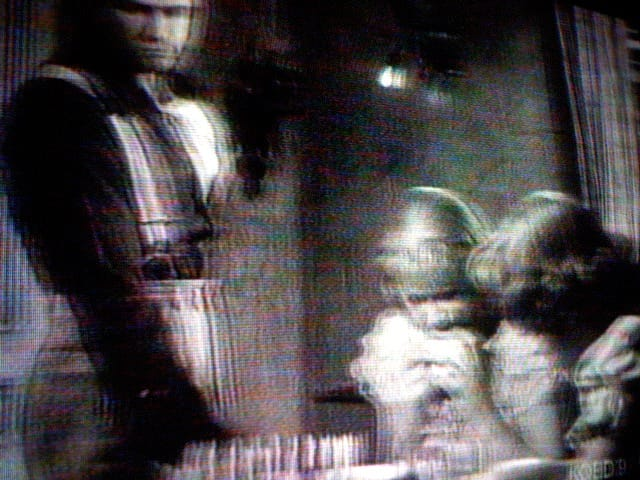
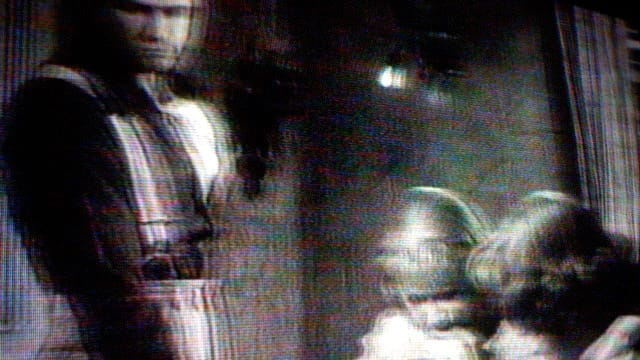
cropped & optimized new /about/ image

diff --git a/_pages/about.html b/_pages/about.html
@@ -7,8 +7,8 @@ permalink: /about/
 
 <article>
 
-  <figure class="feature"><!-- 640.0 x 480.0 | 75.00% -->
-    <div class="wrap" style="padding-bottom:75%"><img src="/assets/img/waterfront.jpg" alt="a tv screencap: on the waterfront"></div>
+  <figure class="feature"><!-- 640.0 x 360.0 | 56.25% -->
+    <div class="wrap" style="padding-bottom:56.25%"><img src="/assets/img/waterfront.jpg" alt="a tv screencap: on the waterfront"></div>
   </figure>
 
   {% capture bio %}
